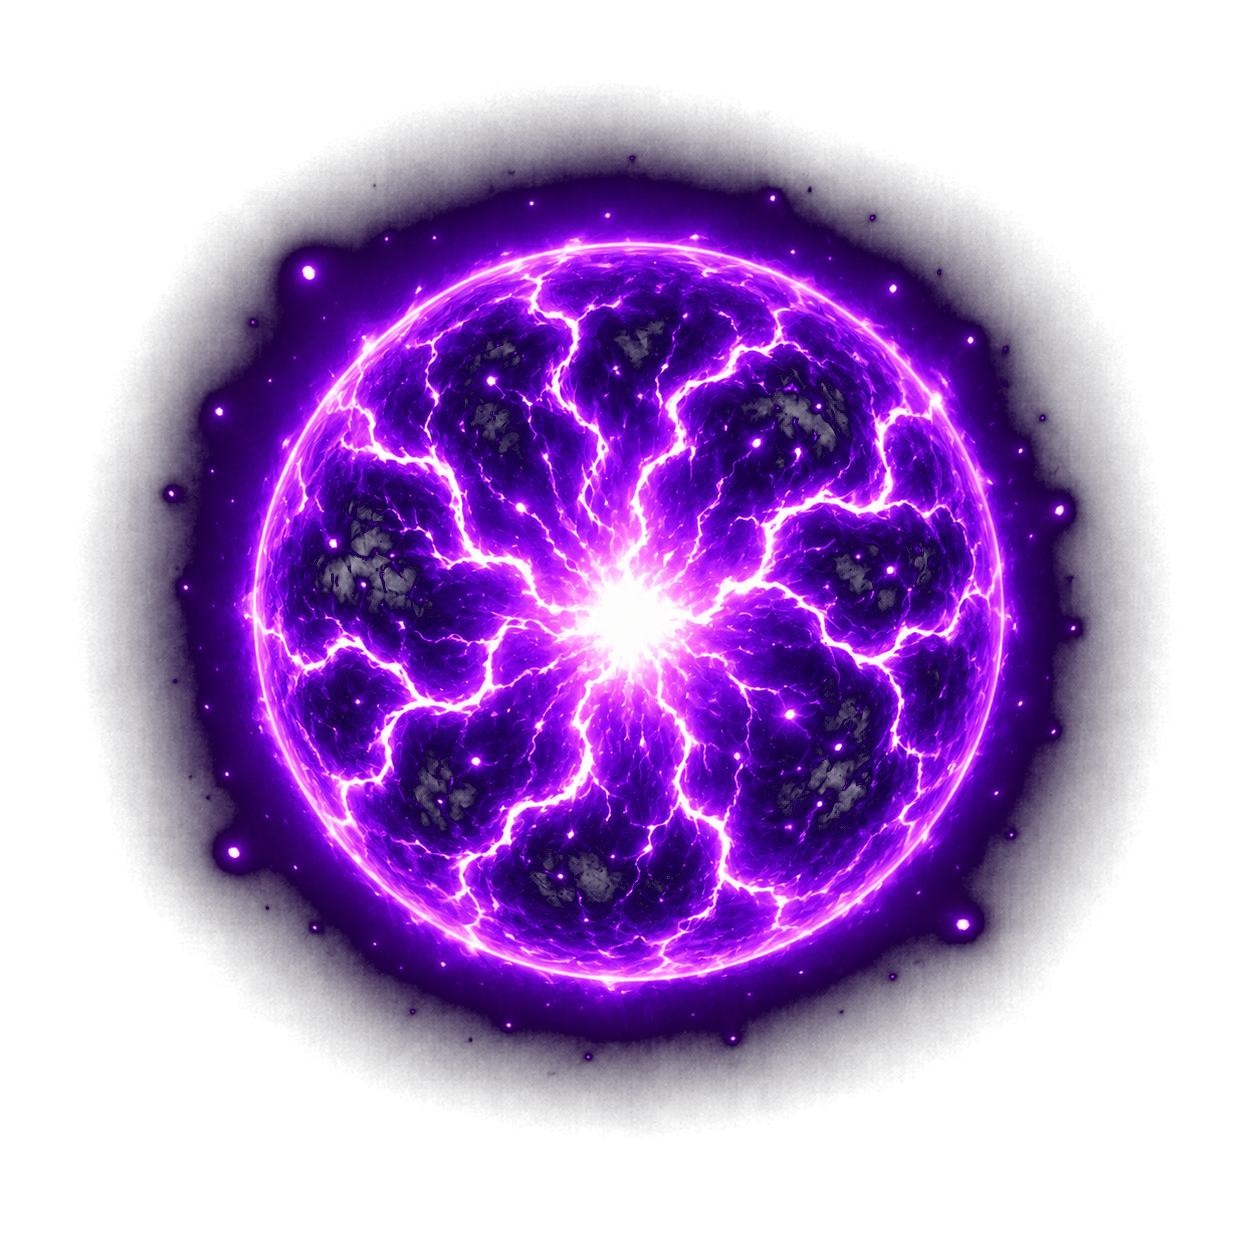
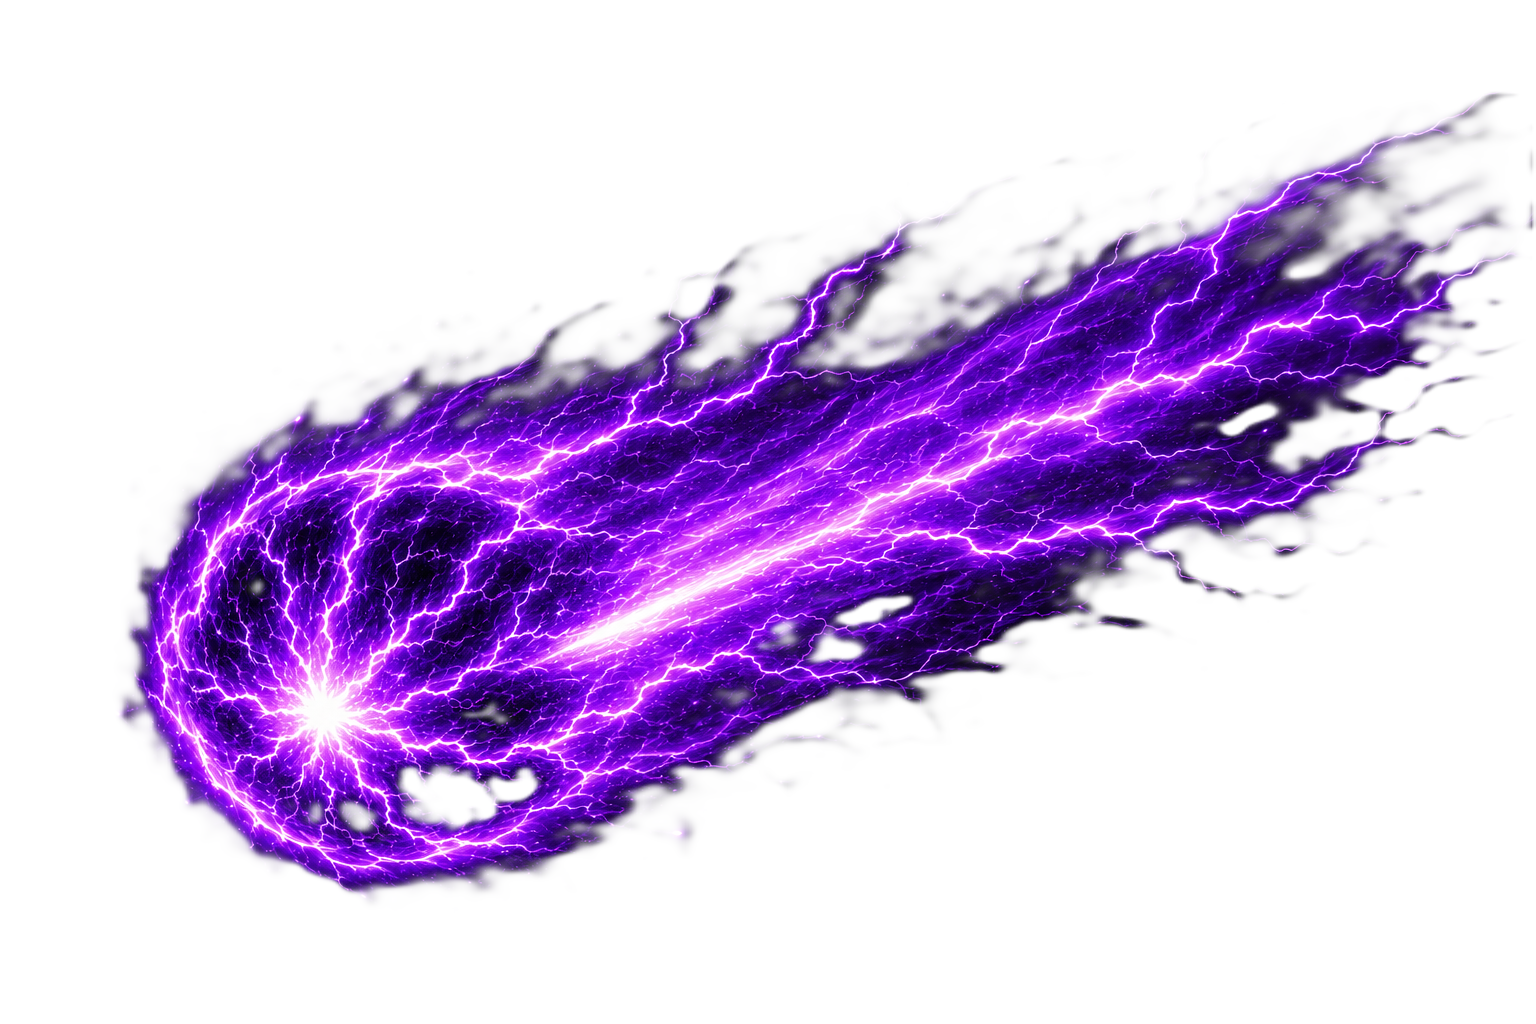
Actualizar imagen de balas del Exterminador
- Reemplaza Balas_exterminador.png con el nuevo diseño pixel art
- Agrega cache-buster al loader para forzar recarga en navegadores

diff --git a/src/scenes/BootScene.js b/src/scenes/BootScene.js
@@ -61,7 +61,7 @@ export class BootScene extends Phaser.Scene {
     // Nivel 2 balas de robots (fondo blanco)
     this.load.image('bala_t700_raw',           `${base}Nivel_2/Balas_T-700.png`)
     this.load.image('bala_killmachine_raw',    `${base}Nivel_2/Balas_Kill_Machine.png`)
-    this.load.image('bala_exterminador_raw',   `${base}Nivel_2/Balas_exterminador.png`)
+    this.load.image('bala_exterminador_raw',   `${base}Nivel_2/Balas_exterminador.png?t=${Date.now()}`)
 
     // Nivel 2 armas pickup (nuevos diseños)
     this.load.image('pickup_sword_l2_raw',         `${base}Nivel_2/espada.png`)
